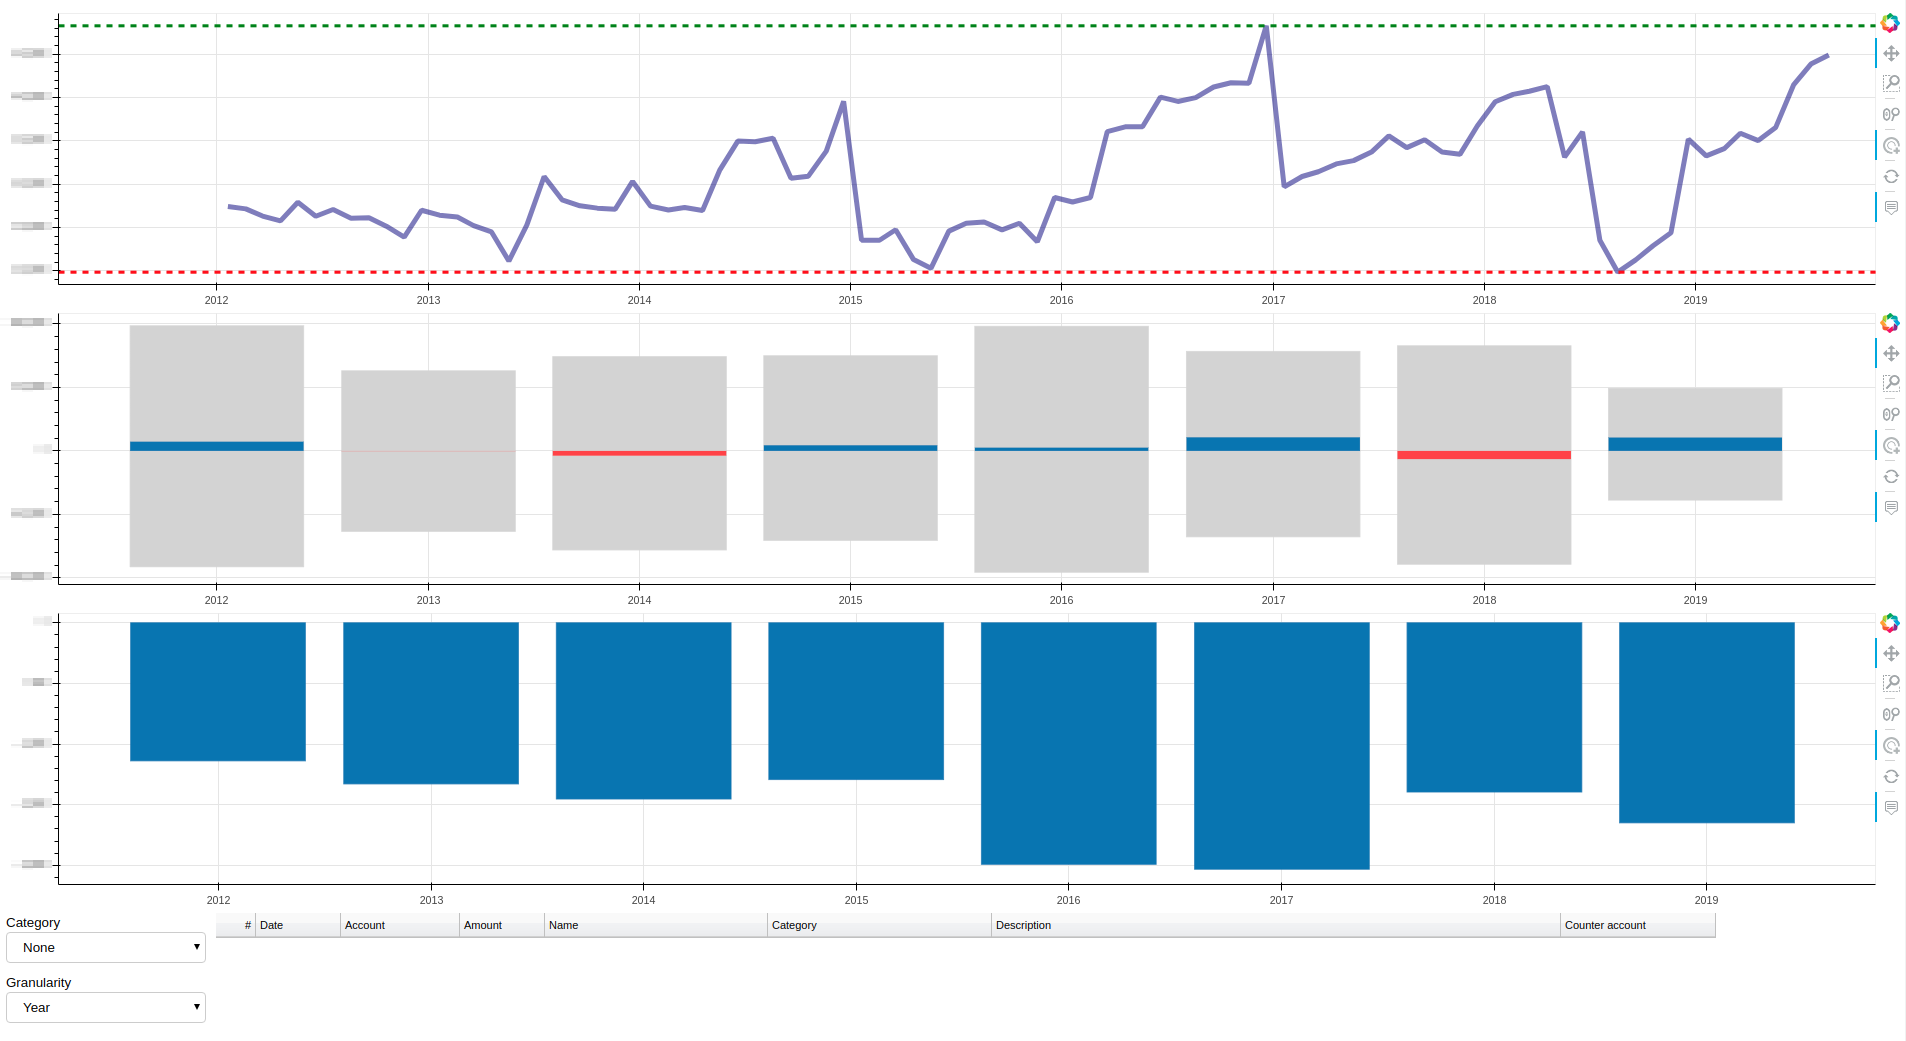
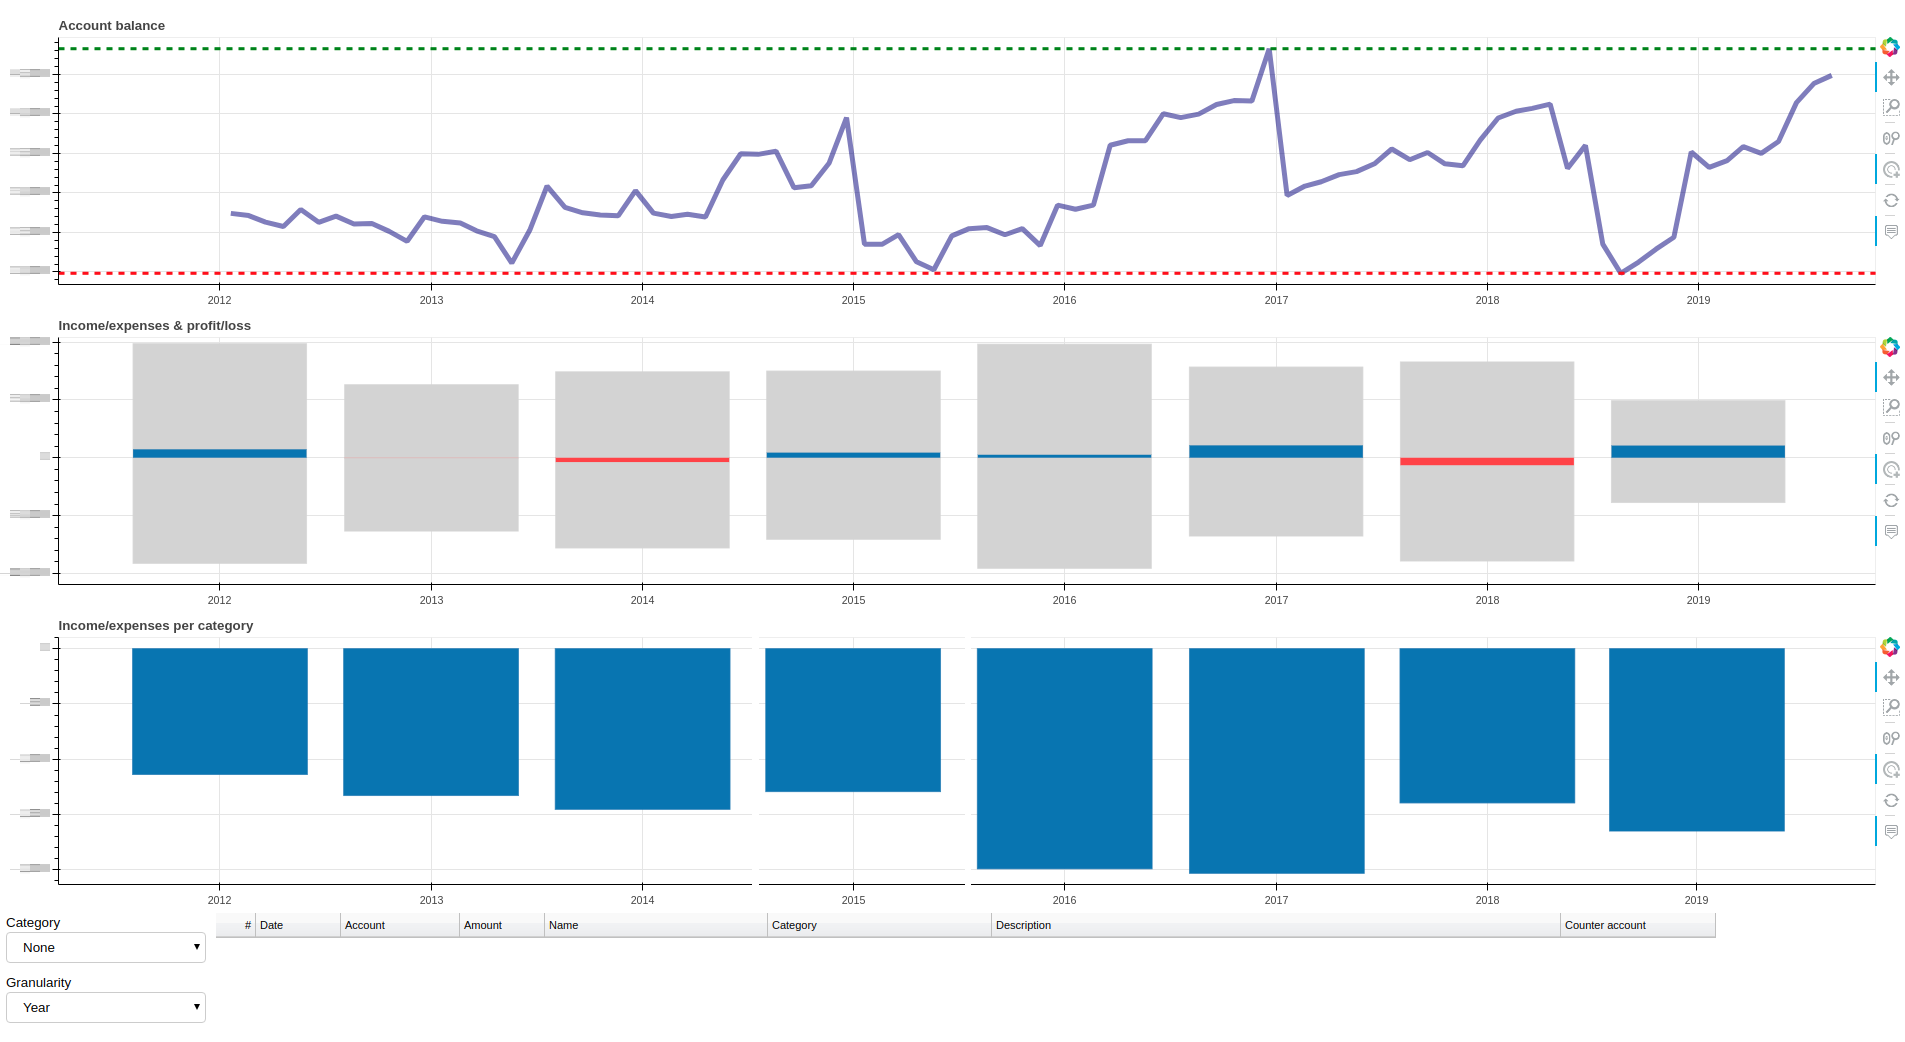
Added titles to figures

diff --git a/ui/categories.py b/ui/categories.py
@@ -5,7 +5,7 @@ import dateutil
 from bokeh.events import Tap, PanEnd
 from bokeh.layouts import column, row
 from bokeh.models import ColumnDataSource, HoverTool, TapTool, TableColumn, DateFormatter, NumberFormatter, \
-    SelectEditor, DataTable, Select, WidgetBox, NumeralTickFormatter
+    SelectEditor, DataTable, Select, WidgetBox, NumeralTickFormatter, Title
 from bokeh.plotting import figure
 
 import application.services
@@ -39,6 +39,7 @@ def get_category_plot(figure_manager):
     )
     fig = figure(sizing_mode='stretch_width', plot_height=300, x_axis_type="datetime",
                  tools=[hover, "tap", "box_zoom", "wheel_zoom", "reset", "pan"])
+    fig.title = Title(text="Income/expenses per category")
     plot = fig.vbar('date', top='amount', width=24 * 24 * 60 * 60 * 1000, source=amounts_source)
     fig.yaxis.formatter = NumeralTickFormatter(format="0,0")
     fig.select(type=TapTool)

diff --git a/ui/balances.py b/ui/balances.py
@@ -1,7 +1,7 @@
 import logging
 
 from bokeh.events import PanEnd
-from bokeh.models import ColumnDataSource, HoverTool, Span, NumeralTickFormatter
+from bokeh.models import ColumnDataSource, HoverTool, Span, NumeralTickFormatter, Title
 from bokeh.plotting import figure
 
 import application.services
@@ -28,6 +28,7 @@ def get_balance_plot(figure_manager):
     fig.yaxis.formatter = NumeralTickFormatter(format="0,0")
 
     balance_plot = fig.line(x='date', y='balance', source=source, line_width=5, color="navy", alpha=0.5)
+    fig.title = Title(text="Account balance")
     zero_line = Span(location=0, dimension="width", line_color="black", line_dash="dashed", line_width=3)
     fig.add_layout(zero_line)
     min_line = Span(location=min(data['balance']), dimension="width", line_color="red", line_dash="dashed",

diff --git a/ui/profit_loss.py b/ui/profit_loss.py
@@ -2,7 +2,7 @@ import logging
 
 import dateutil.relativedelta
 from bokeh.events import PanEnd
-from bokeh.models import ColumnDataSource, HoverTool, NumeralTickFormatter
+from bokeh.models import ColumnDataSource, HoverTool, NumeralTickFormatter, Title
 from bokeh.plotting import figure
 
 import application.services
@@ -40,6 +40,7 @@ def get_profit_loss_plot(figure_manager):
 
     fig = figure(sizing_mode='stretch_width', plot_height=300, x_axis_type="datetime",
                  tools=[hover, "tap", "box_zoom", "wheel_zoom", "reset", "pan"])
+    fig.title = Title(text="Income/expenses & profit/loss")
     fig.yaxis.formatter = NumeralTickFormatter(format="0,0")
 
     income_glyph = fig.vbar('date', name='income', top='income', width=24 * 24 * 60 * 60 * 1000, source=source,
